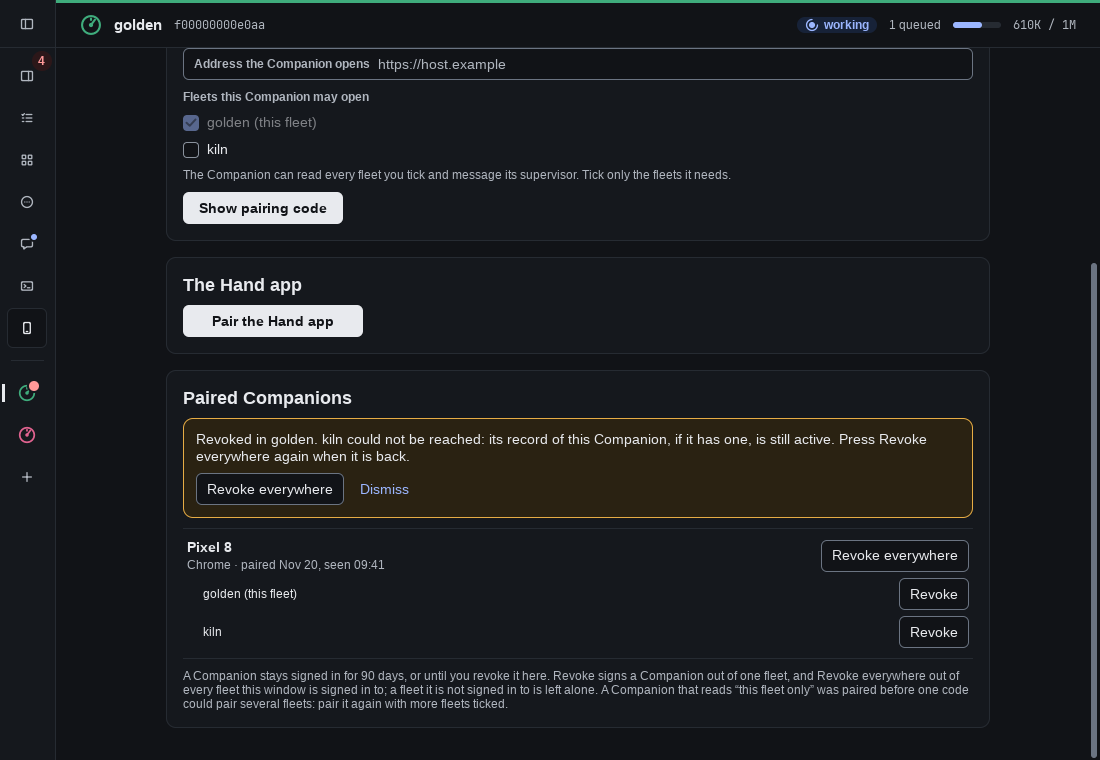
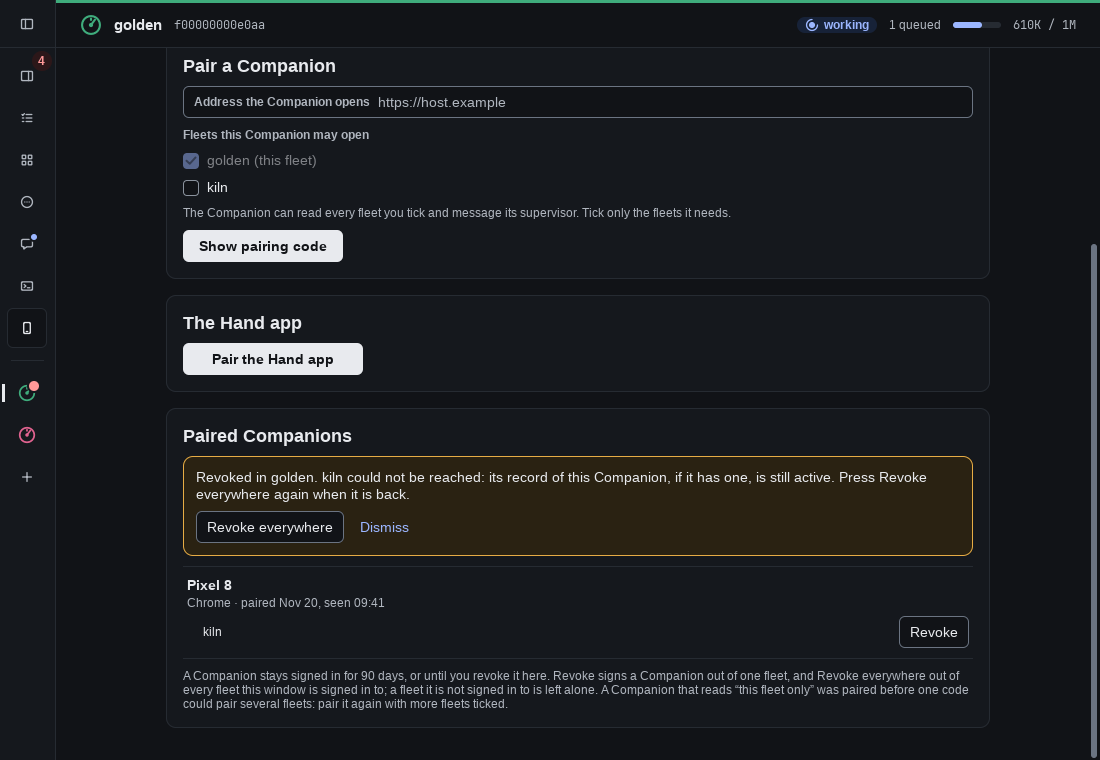
fix(desktop): drop the Companion code when any page opens over it
Opening a task, attempt, decision or document over the Companion page
now clears the code, the app link and their QR, and closing the viewer
reads the page again instead of showing what was held. The revoke
scene's device list follows the reply, a never-read parameter and a
code comment are removed, and tests cover a ref, an open link and a
document opened from the page, the viewer closing afterwards, and a
fleet switch.

Changed region(s): [[0.1545, 0.0605, 0.8345, 0.8171], [0.7418, 0.6961, 0.8964, 0.7868], [0.9891, 0.3026, 1.0, 0.3632]]

diff --git a/internal/desktop/phone_test.go b/internal/desktop/phone_test.go
@@ -486,7 +486,9 @@ func TestARevokeUpdatesTheList(t *testing.T) {
 
 func partialFailure(m *phoneModel) {
 	d := m.data
-	d.Devices = phoneDevices()[:1]
+	left := phoneDevices()[0]
+	left.Fleets = left.Fleets[1:]
+	d.Devices = []desktop.PhoneDevice{left}
 	d.Revoke = &desktop.PhoneRevoked{
 		Revoked: []desktop.PhoneFleetRef{{ID: fleetID, Name: "golden"}},
 		Failed:  []desktop.PhoneFailed{{ID: secondID, Name: "kiln", Reason: "unreachable"}},
@@ -935,4 +937,96 @@ func TestAnEmptyListWithAnUnreachableFleetDoesNotClaimNoneArePaired(t *testing.T
 	_, tt := phoneTester(t, m, false)
 	mustText(t, tt, "No Companion was found in the fleets that could be read.")
 	mustNotText(t, tt, "No Companion is paired.")
+}
+
+func codeOnScreen(tt *ui.Tester) bool {
+	if _, ok := tt.Find("QR code for the pairing link"); ok {
+		return true
+	}
+	for _, s := range tt.Texts() {
+		if strings.Contains(s, phoneCode) || strings.Contains(s, "pair#") || s == "Copy link" {
+			return true
+		}
+	}
+	return false
+}
+
+func TestOpeningAPageOverTheCompanionPageDropsTheCodeLinkAndQR(t *testing.T) {
+	cases := []struct {
+		name string
+		open func(*desktop.App)
+		back bool
+	}{
+		{"ref", func(a *desktop.App) { a.OpenRef("t1") }, true},
+		{"link", func(a *desktop.App) { _ = a.OpenLink("handboard://open/" + fleetID + "/task/t1") }, false},
+		{"doc", func(a *desktop.App) { a.OpenDoc("README.md") }, true},
+	}
+	for _, tc := range cases {
+		for _, dark := range []bool{false, true} {
+			t.Run(tc.name+"/"+theme(dark), func(t *testing.T) {
+				m := phoneFixture(t)
+				app, tt := phoneTester(t, m, dark)
+				mint(t, tt)
+				if !codeOnScreen(tt) {
+					t.Fatal("no code on screen after minting")
+				}
+				m.mu.Lock()
+				m.readErr = errors.New("the board did not answer in time")
+				m.mu.Unlock()
+				tc.open(app)
+				if app.Screen == desktop.PhoneScreen {
+					t.Fatalf("%s did not leave the Companion page", tc.name)
+				}
+				if desktop.PhoneHeld(app) {
+					t.Fatal("the code, link or QR is still held under the opened page")
+				}
+				tt.Frame()
+				if codeOnScreen(tt) {
+					t.Fatal("the code, link or QR shows with a page open over the Companion page")
+				}
+				if !tc.back {
+					return
+				}
+				app.CloseViewer()
+				tt.Frame()
+				if desktop.PhoneHeld(app) || codeOnScreen(tt) {
+					t.Fatal("the closed viewer brought the code, link or QR back with no read")
+				}
+				mustText(t, tt, "The board could not be read")
+			})
+		}
+	}
+}
+
+func TestClosingTheViewerReadsTheCompanionPageAgain(t *testing.T) {
+	m := phoneFixture(t)
+	app, tt := phoneTester(t, m, false)
+	reads := m.reads
+	app.OpenRef("t1")
+	app.CloseViewer()
+	tt.Frame()
+	if m.reads <= reads {
+		t.Fatal("the page was not read again when the viewer closed")
+	}
+	mustText(t, tt, "Pixel 8")
+}
+
+func TestSwitchingFleetDropsTheCompanionPageData(t *testing.T) {
+	m := phoneFixture(t)
+	app, tt := phoneTester(t, m, false)
+	mint(t, tt)
+	if !desktop.PhoneHeld(app) {
+		t.Fatal("no code held after minting")
+	}
+	m.mu.Lock()
+	m.readErr = errors.New("the board did not answer in time")
+	m.mu.Unlock()
+	app.SelectFleet(secondID)
+	if desktop.PhoneHeld(app) {
+		t.Fatal("the first fleet's code is held after switching fleet")
+	}
+	tt.Frame()
+	if codeOnScreen(tt) {
+		t.Fatal("the first fleet's code shows after switching fleet")
+	}
 }

diff --git a/internal/desktop/phonepage.go b/internal/desktop/phonepage.go
@@ -709,7 +709,7 @@ func phoneDeviceKey(d PhoneDevice) string {
 	return "id" + strconv.FormatInt(d.ID, 10)
 }
 
-func (a *App) phoneNote2(d PhoneDevice, fleetsOnly bool) string {
+func (a *App) phoneNote2(d PhoneDevice) string {
 	var parts []string
 	if d.Expired {
 		parts = append(parts, "signed out after 90 days")
@@ -734,7 +734,7 @@ func (a *App) phoneDevice(c *ui.Context, k kit.Colors, p palette, d PhoneDevice)
 		ui.Row(c).Gap(kit.Space10).AlignItems(ui.Center).Children(func() {
 			ui.Column(c).Gap(kit.Space2).Grow(1).MinWidth(0).Children(func() {
 				ui.Text(c, d.Name).FontSize(kit.Body.Size).Bold()
-				ui.Text(c, a.phoneNote2(d, len(d.Fleets) > 0)).FontSize(kit.Meta.Size).TextColor(p.neutral)
+				ui.Text(c, a.phoneNote2(d)).FontSize(kit.Meta.Size).TextColor(p.neutral)
 			})
 			switch {
 			case len(d.Fleets) == 0:

diff --git a/internal/desktop/app.go b/internal/desktop/app.go
@@ -725,6 +725,9 @@ func (a *App) openPage(s Screen, ref, report string, target *Report, opener stri
 		return
 	}
 	if isBase(a.Screen) {
+		if a.Screen == PhoneScreen {
+			a.resetPhone()
+		}
 		a.base = a.Screen
 		a.viewerFocus = true
 	}
@@ -923,6 +926,9 @@ func (a *App) CloseViewer() {
 	a.viewerScroll, a.asideScroll = ui.ScrollState{}, ui.ScrollState{}
 	a.viewerFocus = false
 	a.Reload()
+	if a.Screen == PhoneScreen {
+		a.openPhone()
+	}
 	if a.Screen == TasksScreen {
 		a.refreshTaskSearch()
 	}

diff --git a/internal/desktop/phone.go b/internal/desktop/phone.go
@@ -5,8 +5,6 @@ import (
 	"log/slog"
 )
 
-// Secret holds a pairing code or link. It prints as a placeholder in every
-// format and log, so only Reveal gives the text out.
 type Secret string
 
 func (Secret) String() string       { return "[hidden]" }

diff --git a/internal/desktop/doc.go b/internal/desktop/doc.go
@@ -161,6 +161,9 @@ func (a *App) showDoc(rel string, page int, push bool) {
 		return
 	}
 	if isBase(a.Screen) {
+		if a.Screen == PhoneScreen {
+			a.resetPhone()
+		}
 		a.base = a.Screen
 		a.tabFor = ""
 	}
